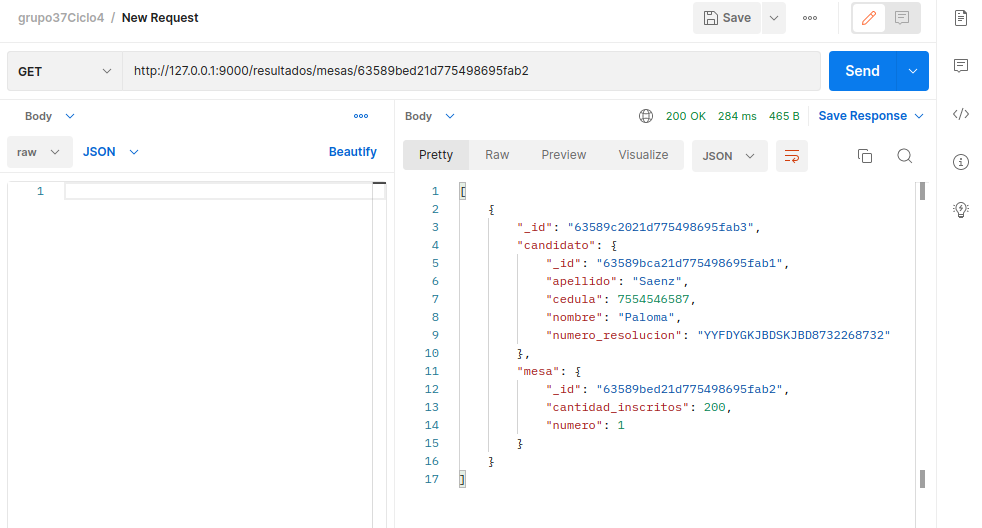
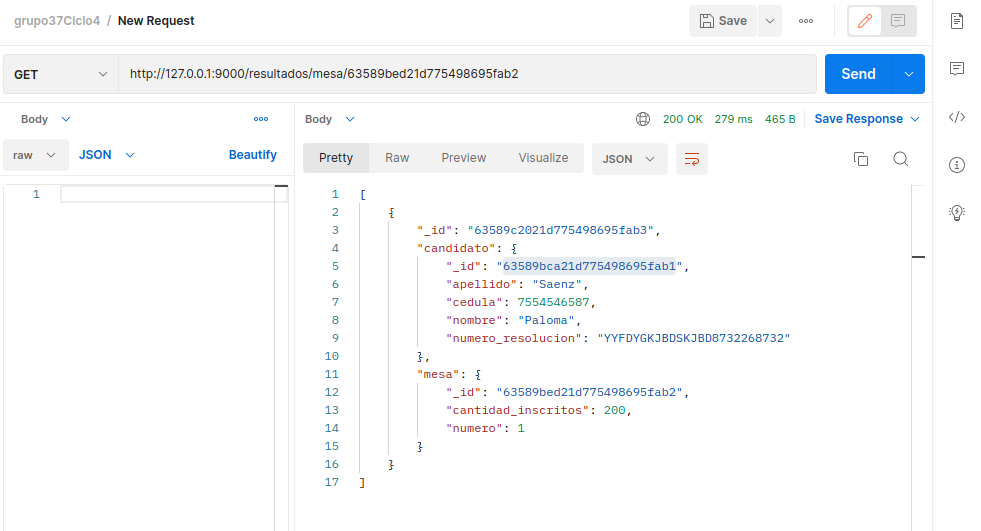
Backend Votaciones finalizado, testeado y con los endpoints funcionando

diff --git a/FlaskMongoProyecto/Repositorios/InterfazRepositorio.py b/FlaskMongoProyecto/Repositorios/InterfazRepositorio.py
@@ -17,7 +17,7 @@ class InterfazRepositorio(Generic[T]):
         newList = []
         laColeccion = self.db[theList[0]._id.collection]
         for item in theList:
-            value = laColeccion.find_one({"_id":ObjectId(item.id)})
+            value = laColeccion.find_one({"_id": ObjectId(item.id)})
             value["_id"] = value["_id"].__str__()
             newList.append(value)
         return newList
@@ -27,15 +27,13 @@ class InterfazRepositorio(Generic[T]):
         for k in keys:
             if isinstance(x[k], DBRef):
                 laColeccion = self.db[x[k].collection]
-                valor = laColeccion.find_one({
-                    "_id":ObjectId(x[k].id)
-                })
+                valor = laColeccion.find_one({"_id": ObjectId(x[k].id)})
                 valor["_id"] = valor["_id"].__str__()
                 x[k] = valor
                 x[k] = self.getValuesDBRef(x[k])
-            elif isinstance(x[k], list) and len(x[k])> 0:
+            elif isinstance(x[k], list) and len(x[k]) > 0:
                 x[k] = self.getValuesDBRefFromList(x[k])
-            elif isinstance(x[k], dict):
+            elif isinstance(x[k], dict) :
                 x[k] = self.getValuesDBRef(x[k])
         return x
 
@@ -67,8 +65,8 @@ class InterfazRepositorio(Generic[T]):
                 x[attribute] = x[attribute].__str__()
             elif isinstance(x[attribute], list):
                 x[attribute] = self.formatList(x[attribute])
-            elif isinstance(x[attribute], dict):
-                x[attribute] = self.transformObjectIds(x[attribute])
+            elif  isinstance(x[attribute], dict):
+                x[attribute]=self.transformObjectIds(x[attribute])
         return x
 
     """ Función de busqueda de todos los ids """
@@ -89,7 +87,7 @@ class InterfazRepositorio(Generic[T]):
         delattr(item, "_id")
         item = item.__dict__
         updateItem = {"$set": item}
-        x = laColeccion.update_one({"_id":id}, updateItem)
+        x = laColeccion.update_one({"_id": _id}, updateItem)
         return {"updated_count": x.matched_count}
 
     # Borrar algun documento
@@ -99,7 +97,7 @@ class InterfazRepositorio(Generic[T]):
         return {"deleted_count": cuenta}
 
     #convierte los objetos de la db a sus referencias 
-    def ObjectToDBRefs(self, item):
+    def ObjectToDBRefs(self, item: T):
         nameCollection = item.__class__.__name__.lower()
         return DBRef(nameCollection, ObjectId(item._id))
 
@@ -116,19 +114,19 @@ class InterfazRepositorio(Generic[T]):
     def save(self, item: T):
         laColeccion = self.db[self.collection]
         elId = ""
-        item = self.transformRefs(item)
+        item  = self.transformRefs(item)
         if hasattr(item, "_id") and item._id != "":
             elId = item._id
             _id = ObjectId(elId)
-            laColeccion = self.db[self.collection]
+            laColeccion =  self.db[self.collection]
             delattr(item, "_id")
             item = item.__dict__
-            updateItem = {"$set":item}
-            x = laColeccion.update_one({"_id":_id}, updateItem)
+            updateItem =  {"$set":item}
+            x = laColeccion.update_one({"_id": _id}, updateItem)
         else:
             _id = laColeccion.insert_one(item.__dict__)
             elId = _id.inserted_id.__str__()
-        x = laColeccion.find_one({"_id": ObjectId(elId)})
+        x  = laColeccion.find_one({"_id": ObjectId(elId)})
         x["_id"] = x["_id"].__str__()
         return self.findById(elId)
     

diff --git a/FlaskMongoProyecto/Controladores/ResultadoControlador.py b/FlaskMongoProyecto/Controladores/ResultadoControlador.py
@@ -9,8 +9,8 @@ from Repositorios.CandidatoRepositorio import CandidatoRepositorio
 class ResultadoControlador():
     def __init__(self):
         self.repositorioResultado = ResultadoRepositorio()
-        self.repositorioCandidato = CandidatoRepositorio()
         self.repositorioMesa = MesaRepositorio()
+        self.repositorioCandidato = CandidatoRepositorio()
 
     def index(self):
         return self.repositorioResultado.findAll()
@@ -28,7 +28,7 @@ class ResultadoControlador():
         return elResultado.__dict__
         
     def update(self, id, infoResultado, id_mesa, id_candidato):
-        nuevoResultado = Resultado(infoResultado)
+        nuevoResultado = Resultado(self.repositorioResultado.findById(id))
         laMesa = Mesa(self.repositorioMesa.findById(id_mesa))
         elCandidato = Candidato(self.repositorioCandidato.findById(id_candidato))
         nuevoResultado.mesa = laMesa

diff --git a/FlaskMongoProyecto/Repositorios/ResultadoRepositorio.py b/FlaskMongoProyecto/Repositorios/ResultadoRepositorio.py
@@ -21,9 +21,10 @@ class ResultadoRepositorio(InterfazRepositorio[Resultado]):
             "$group":{
                 "_id":"$candidato",
                 "max":{
-                    "$max":"$cedula"
+                    "$max": "$cedula"
                 },
-                "doc":{"$first":"$$ROOT"}
+                "doc":{"$first":"$$ROOT"
+                }
             }
         }
         pipeline = [query1]

diff --git a/FlaskMongoProyecto/main.py b/FlaskMongoProyecto/main.py
@@ -154,7 +154,7 @@ def eliminarResultado(id):
     return jsonify(json)
 
 # Mirar los resultados de una mesa en particular
-@app.route("/resultados/mesas/<string:id_mesa>", methods=["GET"])
+@app.route("/resultados/mesa/<string:id_mesa>", methods=["GET"])
 def inscritosEnMesa(id_mesa):
     json = miControladorResultado.getListarCandidatosMesa(id_mesa)
     return jsonify(json)
